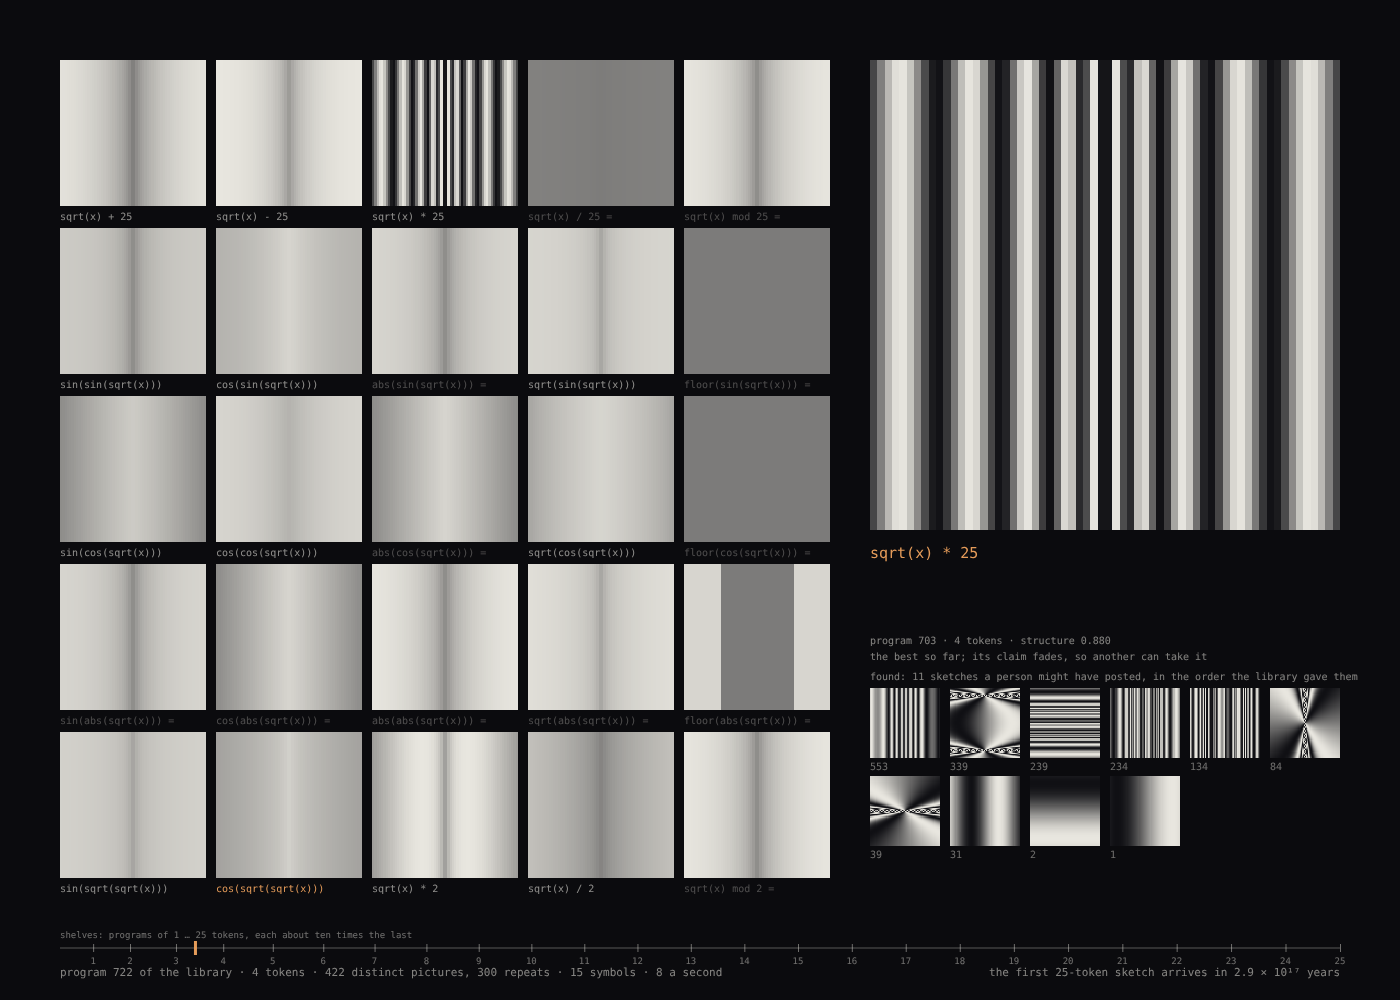
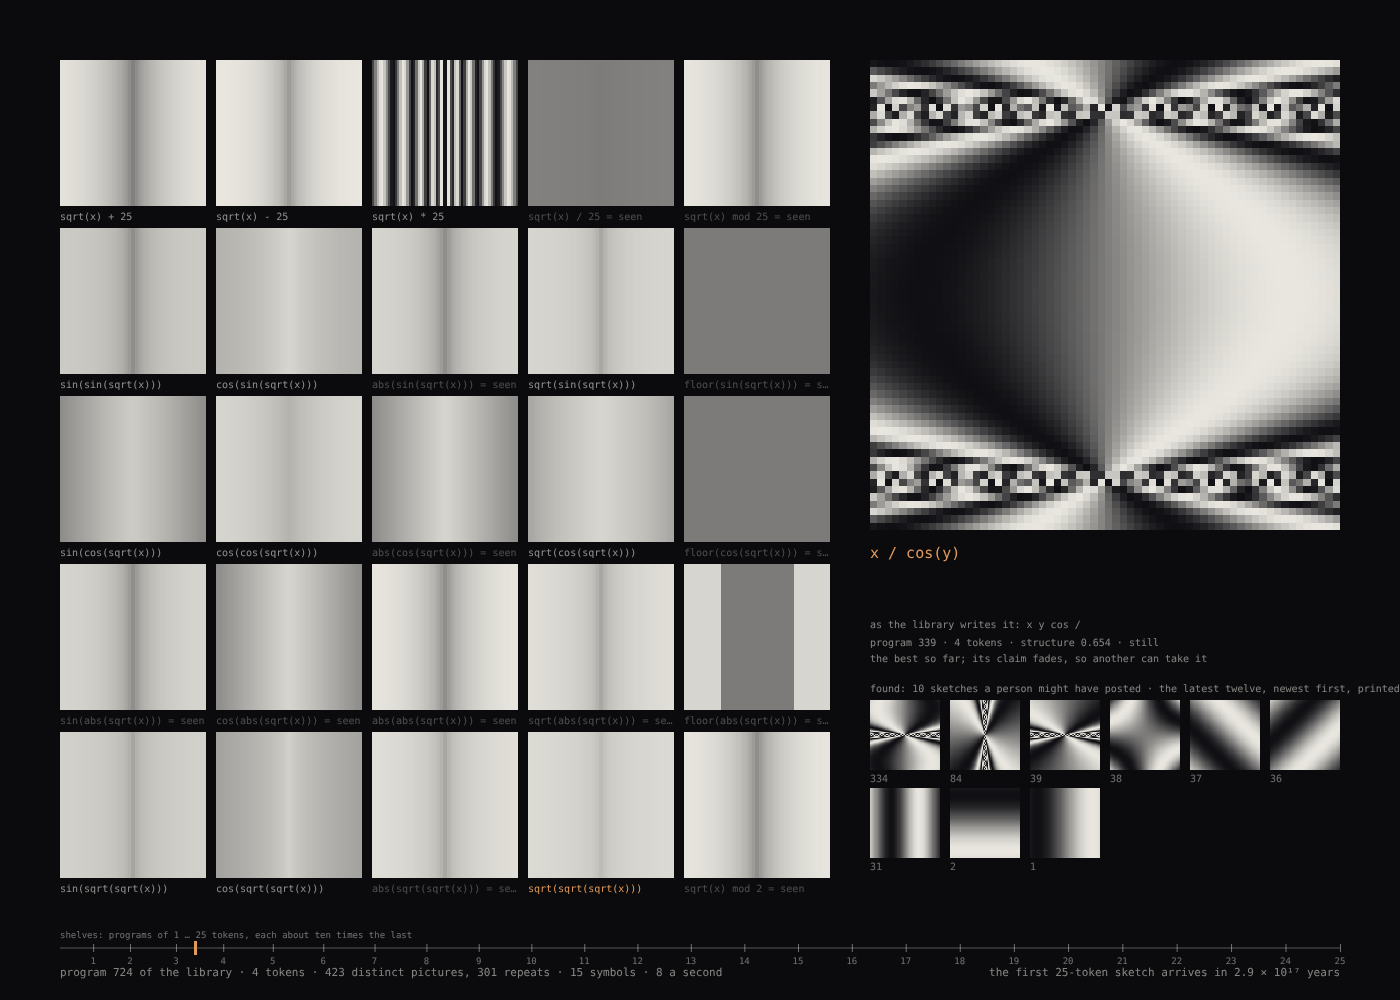
045: a fairer arbiter, prints of the found, motion marks, the postfix line
- a picture that varies along one axis only (a function of x alone) scores half: the smaller
  of its horizontal and vertical variation under a twentieth of the larger; without it every
  champion was stripes. Champions after the rule: x * x / y, x / cos(y), x / (x + y).
- the found are printed as they stood when dethroned and kept as small canvases, no longer
  evaluated every frame (38 fields a frame down to 26); the header says "latest twelve,
  newest first", which is what is drawn
- a program containing t carries an accent mark at the end of its code; the champion's
  caption reads "moves in t" or "still"
- the postfix string the library enumerates is printed under the champion's infix code
- README: the rule, the prints, the marks, the postfix line, counts relative to ?from;
  found column of the table re-measured (8 / 16 / 133); previews refreshed

Claude-Session: https://claude.ai/code/session_01FhnofTHF49yv2QouZWRnps

Changed region(s): [[0.6143, 0.062, 0.9829, 0.558], [0.6143, 0.62, 1.0, 0.868], [0.2457, 0.713, 0.4914, 0.899]]

diff --git a/projects/045-every-25-token-sketch/neort.html b/projects/045-every-25-token-sketch/neort.html
@@ -19,7 +19,9 @@
 // them is a program — in order, shortest first, and draws each one as it arrives. A conveyor
 // of 25 tiles shows the last 25 programs, their code beneath them; a slow lane keeps the one
 // that scores best for having structure, and lets its claim fade so another can take it.
-// Each dethroned champion drops into a column of the found. Every picture is hashed (at t = 0
+// Each dethroned champion drops into a column of the found, printed as it was at that moment.
+// A picture that varies in one direction only (bands) scores half, so the lane is not taken by
+// functions of x alone. Every picture is hashed (at t = 0
 // and t = 1), so the sheet also counts distinct pictures — many programs draw the same one —
 // and a picture already seen cannot take the lane. A ruler along the foot places the current
 // program in the whole library on a log scale, shelf by shelf. The first 280 programs pass at
@@ -193,17 +195,19 @@ const Babel = (function () {
     // structure: tonal range spread over the histogram, times a preference for edges in the
     // middle — a flat field scores 0, a plain gradient low (edge ≈ 0.01), bands, fans and
     // rings high (0.1 … 0.2), moiré and noise nothing (0.35 and up); measured, not guessed
+    // A picture that varies along one axis only — bands, a function of x alone — scores half.
     function score() {
-      const bins = new Float32Array(16); let grad = 0;
+      const bins = new Float32Array(16); let gh = 0, gv = 0;
       for (let i = 0; i < RES * RES; i++) {
         bins[Math.min(15, Math.floor(vals[i] * 16))]++;
-        if (i % RES) grad += Math.abs(vals[i] - vals[i - 1]);
-        if (i >= RES) grad += Math.abs(vals[i] - vals[i - RES]);
+        if (i % RES) gh += Math.abs(vals[i] - vals[i - 1]);
+        if (i >= RES) gv += Math.abs(vals[i] - vals[i - RES]);
       }
       let H = 0;
       for (let b = 0; b < 16; b++) if (bins[b]) { const p = bins[b] / (RES * RES); H -= p * Math.log2(p); }
-      const g = grad / (2 * RES * RES);                              // mean edge, 0 … ~0.5
-      return (H / 4) * Math.exp(-Math.pow((g - 0.13) / 0.09, 2));
+      const g = (gh + gv) / (2 * RES * RES);                         // mean edge, 0 … ~0.5
+      const flat = Math.min(gh, gv) < 0.05 * Math.max(gh, gv);       // one-dimensional
+      return (H / 4) * Math.exp(-Math.pow((g - 0.13) / 0.09, 2)) * (flat ? 0.5 : 1);
     }
     // a picture's identity: its tones at t = 0 and t = 1, quantised to 16 levels, FNV-1a hashed
     function hashPicture(fn) {
@@ -213,6 +217,12 @@ const Babel = (function () {
         for (let i = 0; i < RES * RES; i++) { h ^= Math.min(15, Math.floor(vals[i] * 16)); h = Math.imul(h, 0x01000193) >>> 0; }
       }
       return h;
+    }
+    // a print: the field as it stands, kept as a small canvas
+    function stamp() {
+      const c = document.createElement('canvas'); c.width = RES; c.height = RES;
+      paintTile(c.getContext('2d'), 0, 0, RES);
+      return c;
     }
     function paintTile(cx, x, y, size) {
       const d = img.data;
@@ -232,7 +242,7 @@ const Babel = (function () {
       const p = program(next, order);
       if (!p) return false;
       const { code, fn } = render(p.tokens);
-      const entry = { k: next, n: p.n, code, fn };
+      const entry = { k: next, n: p.n, code, fn, postfix: p.tokens.map((i) => ALPHABET[i][0]).join(' '), moves: p.tokens.includes(2) };
       const h = hashPicture(fn);
       entry.dup = seen.has(h);
       if (entry.dup) dups++; else { seen.add(h); distinct++; }
@@ -240,7 +250,7 @@ const Babel = (function () {
       slots[next % TILES] = entry;
       if (champ) champ.score *= O.fade;
       if (!entry.dup && (!champ || entry.score > champ.score)) {
-        if (champ) found.unshift(champ);
+        if (champ) { evaluate(champ.fn, clock); found.unshift({ k: champ.k, print: stamp() }); }
         champ = Object.assign({}, entry, { since: clock });
       }
       next++;
@@ -266,6 +276,7 @@ const Babel = (function () {
         const fresh = e.k === next - 1;
         ctx.fillStyle = rgba(fresh ? pal.accent : pal.ink, fresh ? 0.95 : e.dup ? 0.3 : 0.6); ctx.textAlign = 'left';
         ctx.fillText(clip(e.code + (e.dup ? ' = seen' : ''), size, 10), x, y + size + 14);
+        if (e.moves) { ctx.fillStyle = rgba(pal.accent, 0.9); ctx.fillRect(x + size - 5, y + size + 7, 5, 5); }   // it moves in t
       }
       // the slow lane: the champion, large, on the right
       const cx0 = F.x + gw + 40, cw = F.w - gw - 40;
@@ -273,17 +284,20 @@ const Babel = (function () {
         evaluate(champ.fn, clock); paintTile(ctx, cx0, F.y, cw);
         ctx.fillStyle = rgba(pal.accent, 0.95); ctx.font = '15px ' + MONO; ctx.textAlign = 'left';
         wrap(ctx, champ.code, cx0, F.y + cw + 28, cw, 20, 15);
+        const ty = F.y + cw + 28 + 20 * 4;
         ctx.fillStyle = rgba(pal.ink, 0.55); ctx.font = '10px ' + MONO;
-        ctx.fillText('program ' + group(champ.k + 1) + ' · ' + champ.n + (champ.n === 1 ? ' token' : ' tokens') + ' · structure ' + champ.score.toFixed(3), cx0, F.y + cw + 28 + 20 * 4 + 6);
-        ctx.fillText('the best so far; its claim fades, so another can take it', cx0, F.y + cw + 28 + 20 * 4 + 22);
+        ctx.fillText('as the library writes it: ' + champ.postfix, cx0, ty - 10);
+        ctx.fillText('program ' + group(champ.k + 1) + ' · ' + champ.n + (champ.n === 1 ? ' token' : ' tokens') + ' · structure ' + champ.score.toFixed(3) + (champ.moves ? ' · moves in t' : ' · still'), cx0, ty + 8);
+        ctx.fillText('the best so far; its claim fades, so another can take it', cx0, ty + 24);
       }
-      // the found: the champions dethroned, newest first, two rows of six
-      const fy = F.y + cw + 28 + 20 * 4 + 50, fg = 10, fs = (cw - 5 * fg) / 6;
+      // the found: the champions dethroned, printed as they were, the latest twelve newest first
+      const fy = F.y + cw + 28 + 20 * 4 + 62, fg = 10, fs = (cw - 5 * fg) / 6;
       ctx.fillStyle = rgba(pal.ink, 0.55); ctx.font = '10px ' + MONO; ctx.textAlign = 'left';
-      ctx.fillText('found: ' + group(found.length + (champ ? 1 : 0)) + ' sketches a person might have posted, in the order the library gave them', cx0, fy - 8);
+      ctx.fillText('found: ' + group(found.length + (champ ? 1 : 0)) + ' sketches a person might have posted · latest twelve, newest first', cx0, fy - 8);
+      ctx.imageSmoothingEnabled = false;
       for (let i = 0; i < Math.min(12, found.length); i++) {
         const f = found[i], x = cx0 + (i % 6) * (fs + fg), y = fy + Math.floor(i / 6) * (fs + 18);
-        evaluate(f.fn, clock); paintTile(ctx, x, y, fs);
+        ctx.drawImage(f.print, x, y, fs, fs);
         ctx.fillStyle = rgba(pal.ink, 0.45); ctx.fillText(clip(group(f.k + 1), fs, 10), x, y + fs + 12);
       }
       // the ruler: the whole library on a log scale, a tick per shelf, the cursor at the program now

diff --git a/projects/045-every-25-token-sketch/babel.js b/projects/045-every-25-token-sketch/babel.js
@@ -8,7 +8,9 @@
 // them is a program — in order, shortest first, and draws each one as it arrives. A conveyor
 // of 25 tiles shows the last 25 programs, their code beneath them; a slow lane keeps the one
 // that scores best for having structure, and lets its claim fade so another can take it.
-// Each dethroned champion drops into a column of the found. Every picture is hashed (at t = 0
+// Each dethroned champion drops into a column of the found, printed as it was at that moment.
+// A picture that varies in one direction only (bands) scores half, so the lane is not taken by
+// functions of x alone. Every picture is hashed (at t = 0
 // and t = 1), so the sheet also counts distinct pictures — many programs draw the same one —
 // and a picture already seen cannot take the lane. A ruler along the foot places the current
 // program in the whole library on a log scale, shelf by shelf. The first 280 programs pass at
@@ -182,17 +184,19 @@ const Babel = (function () {
     // structure: tonal range spread over the histogram, times a preference for edges in the
     // middle — a flat field scores 0, a plain gradient low (edge ≈ 0.01), bands, fans and
     // rings high (0.1 … 0.2), moiré and noise nothing (0.35 and up); measured, not guessed
+    // A picture that varies along one axis only — bands, a function of x alone — scores half.
     function score() {
-      const bins = new Float32Array(16); let grad = 0;
+      const bins = new Float32Array(16); let gh = 0, gv = 0;
       for (let i = 0; i < RES * RES; i++) {
         bins[Math.min(15, Math.floor(vals[i] * 16))]++;
-        if (i % RES) grad += Math.abs(vals[i] - vals[i - 1]);
-        if (i >= RES) grad += Math.abs(vals[i] - vals[i - RES]);
+        if (i % RES) gh += Math.abs(vals[i] - vals[i - 1]);
+        if (i >= RES) gv += Math.abs(vals[i] - vals[i - RES]);
       }
       let H = 0;
       for (let b = 0; b < 16; b++) if (bins[b]) { const p = bins[b] / (RES * RES); H -= p * Math.log2(p); }
-      const g = grad / (2 * RES * RES);                              // mean edge, 0 … ~0.5
-      return (H / 4) * Math.exp(-Math.pow((g - 0.13) / 0.09, 2));
+      const g = (gh + gv) / (2 * RES * RES);                         // mean edge, 0 … ~0.5
+      const flat = Math.min(gh, gv) < 0.05 * Math.max(gh, gv);       // one-dimensional
+      return (H / 4) * Math.exp(-Math.pow((g - 0.13) / 0.09, 2)) * (flat ? 0.5 : 1);
     }
     // a picture's identity: its tones at t = 0 and t = 1, quantised to 16 levels, FNV-1a hashed
     function hashPicture(fn) {
@@ -202,6 +206,12 @@ const Babel = (function () {
         for (let i = 0; i < RES * RES; i++) { h ^= Math.min(15, Math.floor(vals[i] * 16)); h = Math.imul(h, 0x01000193) >>> 0; }
       }
       return h;
+    }
+    // a print: the field as it stands, kept as a small canvas
+    function stamp() {
+      const c = document.createElement('canvas'); c.width = RES; c.height = RES;
+      paintTile(c.getContext('2d'), 0, 0, RES);
+      return c;
     }
     function paintTile(cx, x, y, size) {
       const d = img.data;
@@ -221,7 +231,7 @@ const Babel = (function () {
       const p = program(next, order);
       if (!p) return false;
       const { code, fn } = render(p.tokens);
-      const entry = { k: next, n: p.n, code, fn };
+      const entry = { k: next, n: p.n, code, fn, postfix: p.tokens.map((i) => ALPHABET[i][0]).join(' '), moves: p.tokens.includes(2) };
       const h = hashPicture(fn);
       entry.dup = seen.has(h);
       if (entry.dup) dups++; else { seen.add(h); distinct++; }
@@ -229,7 +239,7 @@ const Babel = (function () {
       slots[next % TILES] = entry;
       if (champ) champ.score *= O.fade;
       if (!entry.dup && (!champ || entry.score > champ.score)) {
-        if (champ) found.unshift(champ);
+        if (champ) { evaluate(champ.fn, clock); found.unshift({ k: champ.k, print: stamp() }); }
         champ = Object.assign({}, entry, { since: clock });
       }
       next++;
@@ -255,6 +265,7 @@ const Babel = (function () {
         const fresh = e.k === next - 1;
         ctx.fillStyle = rgba(fresh ? pal.accent : pal.ink, fresh ? 0.95 : e.dup ? 0.3 : 0.6); ctx.textAlign = 'left';
         ctx.fillText(clip(e.code + (e.dup ? ' = seen' : ''), size, 10), x, y + size + 14);
+        if (e.moves) { ctx.fillStyle = rgba(pal.accent, 0.9); ctx.fillRect(x + size - 5, y + size + 7, 5, 5); }   // it moves in t
       }
       // the slow lane: the champion, large, on the right
       const cx0 = F.x + gw + 40, cw = F.w - gw - 40;
@@ -262,17 +273,20 @@ const Babel = (function () {
         evaluate(champ.fn, clock); paintTile(ctx, cx0, F.y, cw);
         ctx.fillStyle = rgba(pal.accent, 0.95); ctx.font = '15px ' + MONO; ctx.textAlign = 'left';
         wrap(ctx, champ.code, cx0, F.y + cw + 28, cw, 20, 15);
+        const ty = F.y + cw + 28 + 20 * 4;
         ctx.fillStyle = rgba(pal.ink, 0.55); ctx.font = '10px ' + MONO;
-        ctx.fillText('program ' + group(champ.k + 1) + ' · ' + champ.n + (champ.n === 1 ? ' token' : ' tokens') + ' · structure ' + champ.score.toFixed(3), cx0, F.y + cw + 28 + 20 * 4 + 6);
-        ctx.fillText('the best so far; its claim fades, so another can take it', cx0, F.y + cw + 28 + 20 * 4 + 22);
+        ctx.fillText('as the library writes it: ' + champ.postfix, cx0, ty - 10);
+        ctx.fillText('program ' + group(champ.k + 1) + ' · ' + champ.n + (champ.n === 1 ? ' token' : ' tokens') + ' · structure ' + champ.score.toFixed(3) + (champ.moves ? ' · moves in t' : ' · still'), cx0, ty + 8);
+        ctx.fillText('the best so far; its claim fades, so another can take it', cx0, ty + 24);
       }
-      // the found: the champions dethroned, newest first, two rows of six
-      const fy = F.y + cw + 28 + 20 * 4 + 50, fg = 10, fs = (cw - 5 * fg) / 6;
+      // the found: the champions dethroned, printed as they were, the latest twelve newest first
+      const fy = F.y + cw + 28 + 20 * 4 + 62, fg = 10, fs = (cw - 5 * fg) / 6;
       ctx.fillStyle = rgba(pal.ink, 0.55); ctx.font = '10px ' + MONO; ctx.textAlign = 'left';
-      ctx.fillText('found: ' + group(found.length + (champ ? 1 : 0)) + ' sketches a person might have posted, in the order the library gave them', cx0, fy - 8);
+      ctx.fillText('found: ' + group(found.length + (champ ? 1 : 0)) + ' sketches a person might have posted · latest twelve, newest first', cx0, fy - 8);
+      ctx.imageSmoothingEnabled = false;
       for (let i = 0; i < Math.min(12, found.length); i++) {
         const f = found[i], x = cx0 + (i % 6) * (fs + fg), y = fy + Math.floor(i / 6) * (fs + 18);
-        evaluate(f.fn, clock); paintTile(ctx, x, y, fs);
+        ctx.drawImage(f.print, x, y, fs, fs);
         ctx.fillStyle = rgba(pal.ink, 0.45); ctx.fillText(clip(group(f.k + 1), fs, 10), x, y + fs + 12);
       }
       // the ruler: the whole library on a log scale, a tick per shelf, the cursor at the program now

diff --git a/projects/045-every-25-token-sketch/README.md b/projects/045-every-25-token-sketch/README.md
@@ -55,15 +55,19 @@ is BigInt, so the order is exact for every length the library holds.
 Structure is scored, not judged: the tonal entropy of the 64 × 64 field (0 flat … 1 every
 tone), times a preference for a middle amount of edge. Measured on typical programs, a plain
 gradient has mean edge 0.01, bands and fans 0.1–0.2, moiré and noise 0.35 and up; the
-preference peaks at 0.13, so bands, fans and rings win, gradients and noise lose. The
-champion's score fades by 0.9992 per program, so a later, only slightly worse program takes
-the lane within a few minutes.
+preference peaks at 0.13, so bands, fans and rings win, gradients and noise lose. A picture
+that varies along one axis only — a function of x alone, which is most of the early library —
+scores half, measured as the smaller of its horizontal and vertical variation being under a
+twentieth of the larger; without this rule every champion is stripes. The champion's score
+fades by 0.9992 per program, so a later, only slightly worse program takes the lane within a
+few minutes.
 
 ## What the sheet shows, besides the conveyor
 
-- **The found.** When the slow lane changes hands the outgoing champion drops into a column
-  beneath it, newest first, with its program number — the sketches a person might have posted,
-  in the order the library gave them. Twelve are shown; all are counted.
+- **The found.** When the slow lane changes hands the outgoing champion is printed as it stood
+  at that moment and drops into a column beneath the lane, with its program number — the
+  sketches a person might have posted. The latest twelve are shown, newest first; all are
+  counted. Prints, not live fields: the found do not move, and cost nothing a frame.
 - **Distinct pictures.** Many programs draw the same picture: `x + y` and `y + x`,
   `sin(floor(25))` and `sin(abs(25))`, anything that reduces to a constant. Each picture is
   hashed from its tones at t = 0 and t = 1 (16 levels, FNV-1a), the caption counts distinct
@@ -76,12 +80,18 @@ the lane within a few minutes.
 - **The prologue.** The first 280 programs — the characters of a post — pass at one a frame,
   under five seconds, so the one- and two-token shelves (constants and gradients) are over
   before the viewer has settled; then 8 a second.
+- **Motion.** A program containing `t` moves; an accent mark at the right end of its code says
+  so, and the champion's caption reads "moves in t" or "still".
+- **The library's own writing.** Under the champion's infix code, the postfix string the
+  library actually enumerates — `x x * 25 mod` — so the ordering claim can be checked by eye.
+- When the sheet begins at a later program (`?from=`), the distinct and repeat counts are from
+  that program on.
 
 | after | programs | distinct pictures | repeats | found |
 |---|---|---|---|---|
-| shelf 3 | 280 | 136 | 144 | 7 |
-| shelf 4 | 2,780 | 963 | 1,817 | 20 |
-| shelf 5 | 30,905 | 8,020 | 22,885 | 189 |
+| shelf 3 | 280 | 136 | 144 | 8 |
+| shelf 4 | 2,780 | 963 | 1,817 | 16 |
+| shelf 5 | 30,905 | 8,020 | 22,885 | 133 |
 
 ![the sheet after one minute: program 722, eleven found](minute.png)
 
